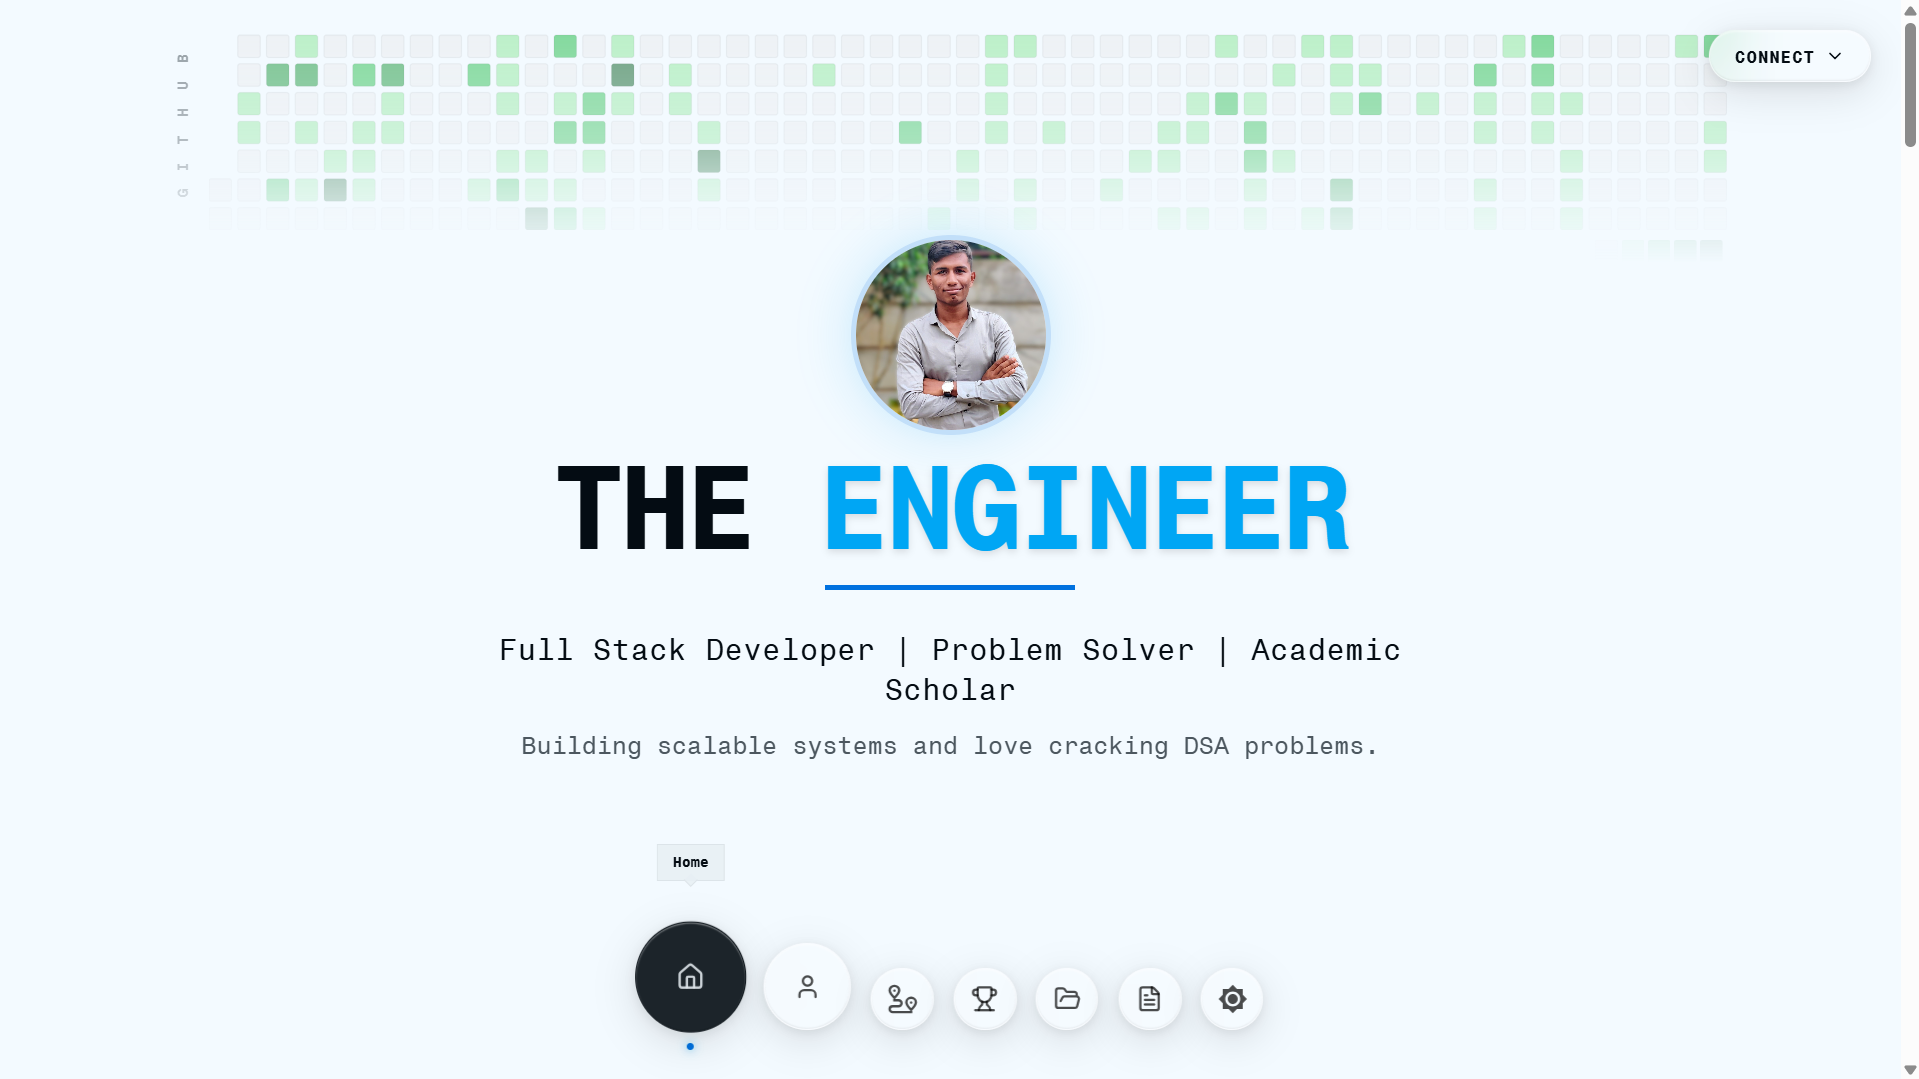
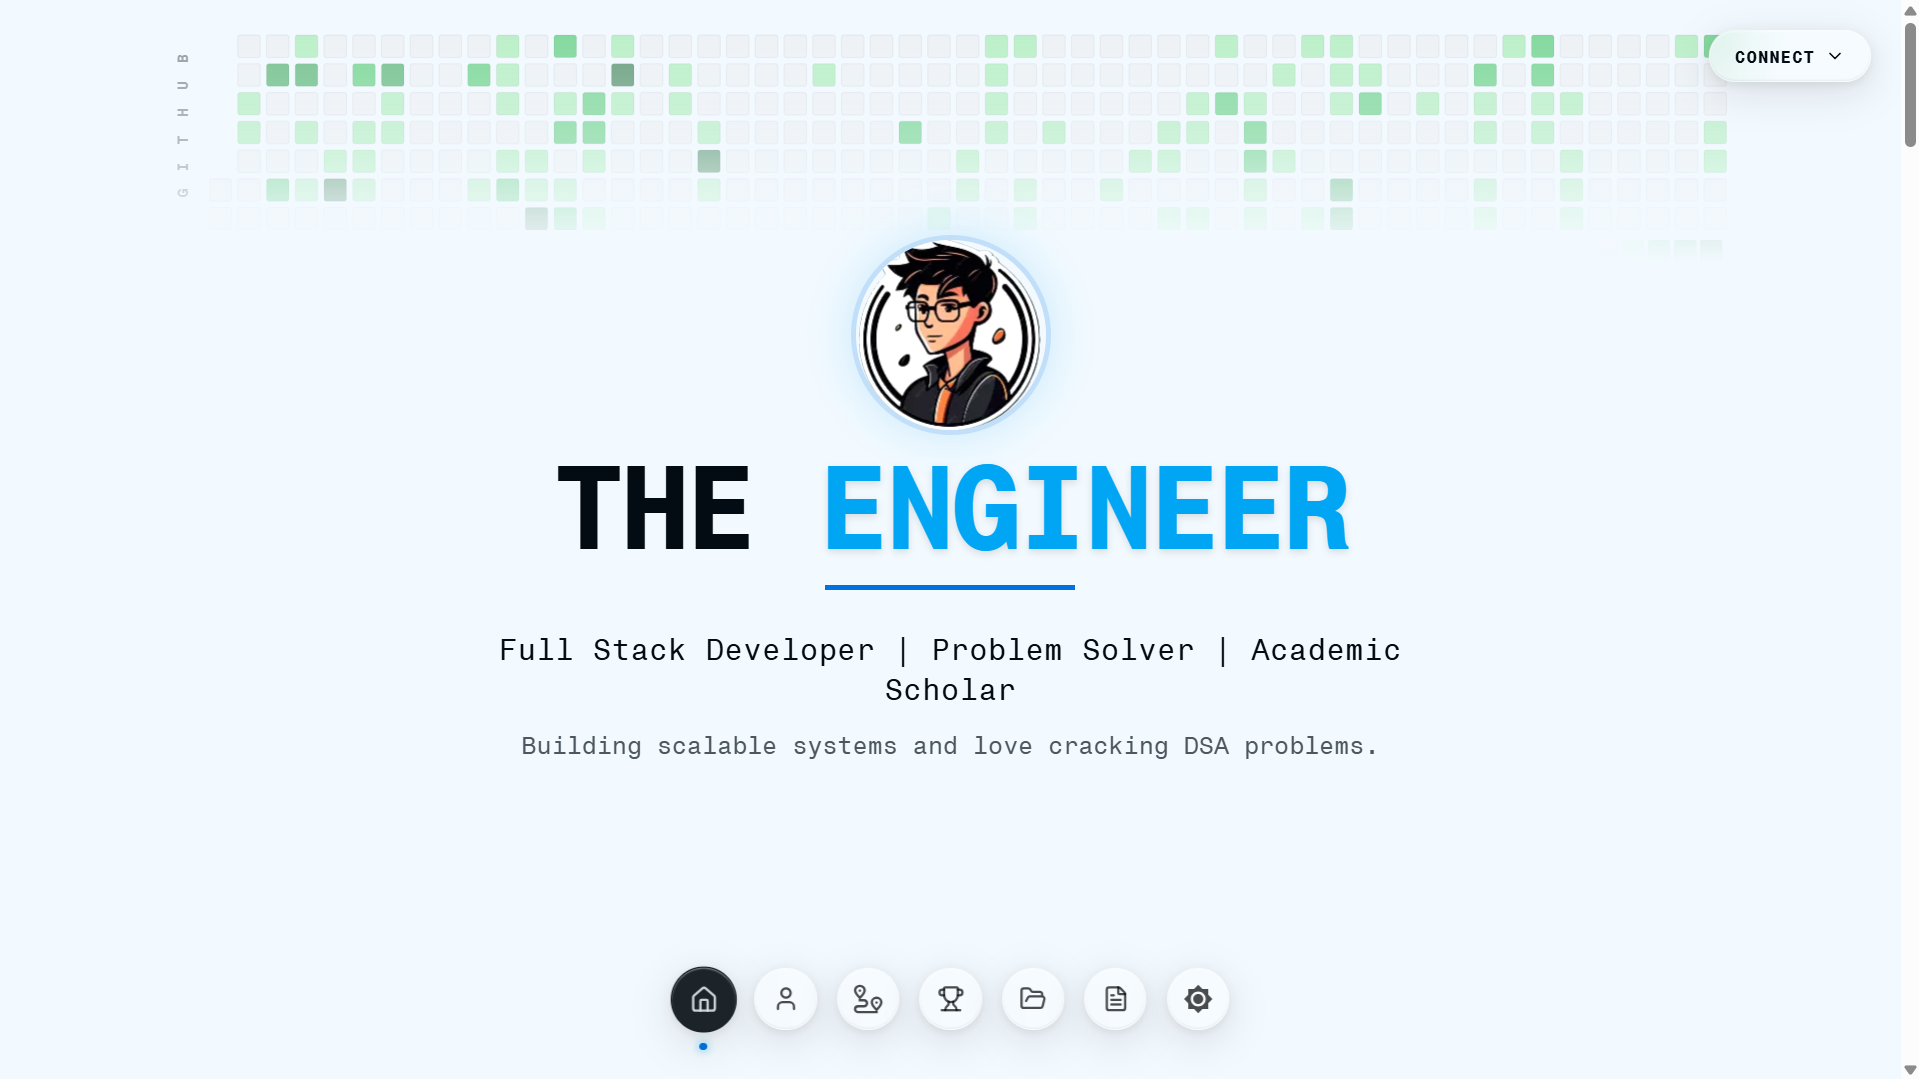
fix: update title in metadata and adjust heading text in AboutSection; change profile image source in HomeSection

Changed region(s): [[0.4304, 0.2141, 0.5534, 0.3976], [0.3075, 0.8563, 0.6456, 0.9787], [0.3382, 0.7952, 0.3689, 0.8258]]

diff --git a/components/sections/AboutSection.tsx b/components/sections/AboutSection.tsx
@@ -6,7 +6,7 @@ export const AboutSection: React.FC = () => {
   return (
     <div className="w-full max-w-5xl mx-auto flex flex-col md:flex-row gap-12 items-center justify-center p-6">
       <div className="flex-1 space-y-6">
-        <h2 className="font-title text-4xl text-foreground">Who I Am</h2>
+        <h2 className="font-title text-4xl text-foreground">Who Am I ?</h2>
 
         <p className="text-muted-foreground text-lg leading-relaxed">
           I'm a Computer Engineering undergrad at the prestigious <span className="text-foreground font-semibold">Pune Institute of Computer Technology (PICT)</span>, maintaining a stellar <span className="text-primary font-bold">CGPA of 9.80</span>. My academic journey is built on a foundation of excellence, demonstrated by securing rank <span className="text-foreground font-semibold">612</span> (99.71 percentile) in MHT-CET among over 2.5 lakh aspirants.

diff --git a/components/sections/HomeSection.tsx b/components/sections/HomeSection.tsx
@@ -61,7 +61,7 @@ export const HomeSection: React.FC = () => {
           className="w-40 h-40 rounded-full overflow-hidden border-4 border-primary/20 shadow-[0_0_40px_rgba(14,165,233,0.2)] mb-2 relative group pointer-events-none"
         >
           <div className="absolute inset-0 transition-colors duration-500 z-10" />
-          <img src={profile.src} alt="Profile" className="w-full h-full object-cover contrast-105" />
+          <img src={"/logo.png"} alt="Profile" className="w-full h-full object-cover contrast-105" />
         </motion.div>
 
         <div className="space-y-4 pointer-events-none">

diff --git a/app/layout.tsx b/app/layout.tsx
@@ -34,7 +34,7 @@ export const metadata: Metadata = {
   },
   twitter: {
     card: "summary_large_image",
-    title: "Shubham Shinde - The Engineer",
+    title: "Shubham Shinde - Technophile",
     description:
       "The Engineer - Full Stack Developer & problem solver. Building interactive web experiences through thoughtful UI design and careful attention to detail.",
     images: ["https://shubhamshinde.engineer/preview.png"],
